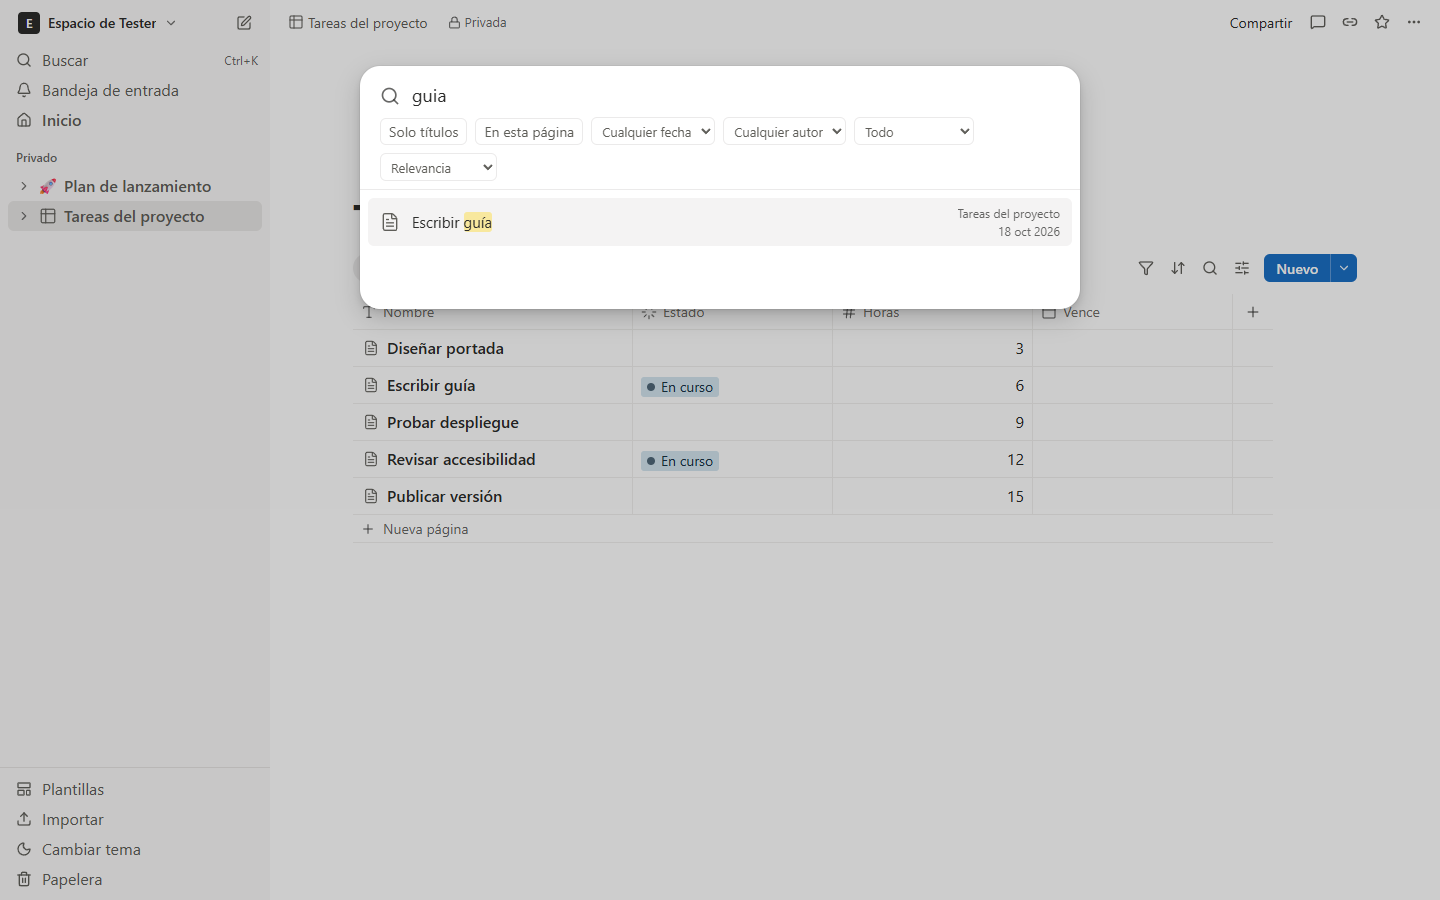
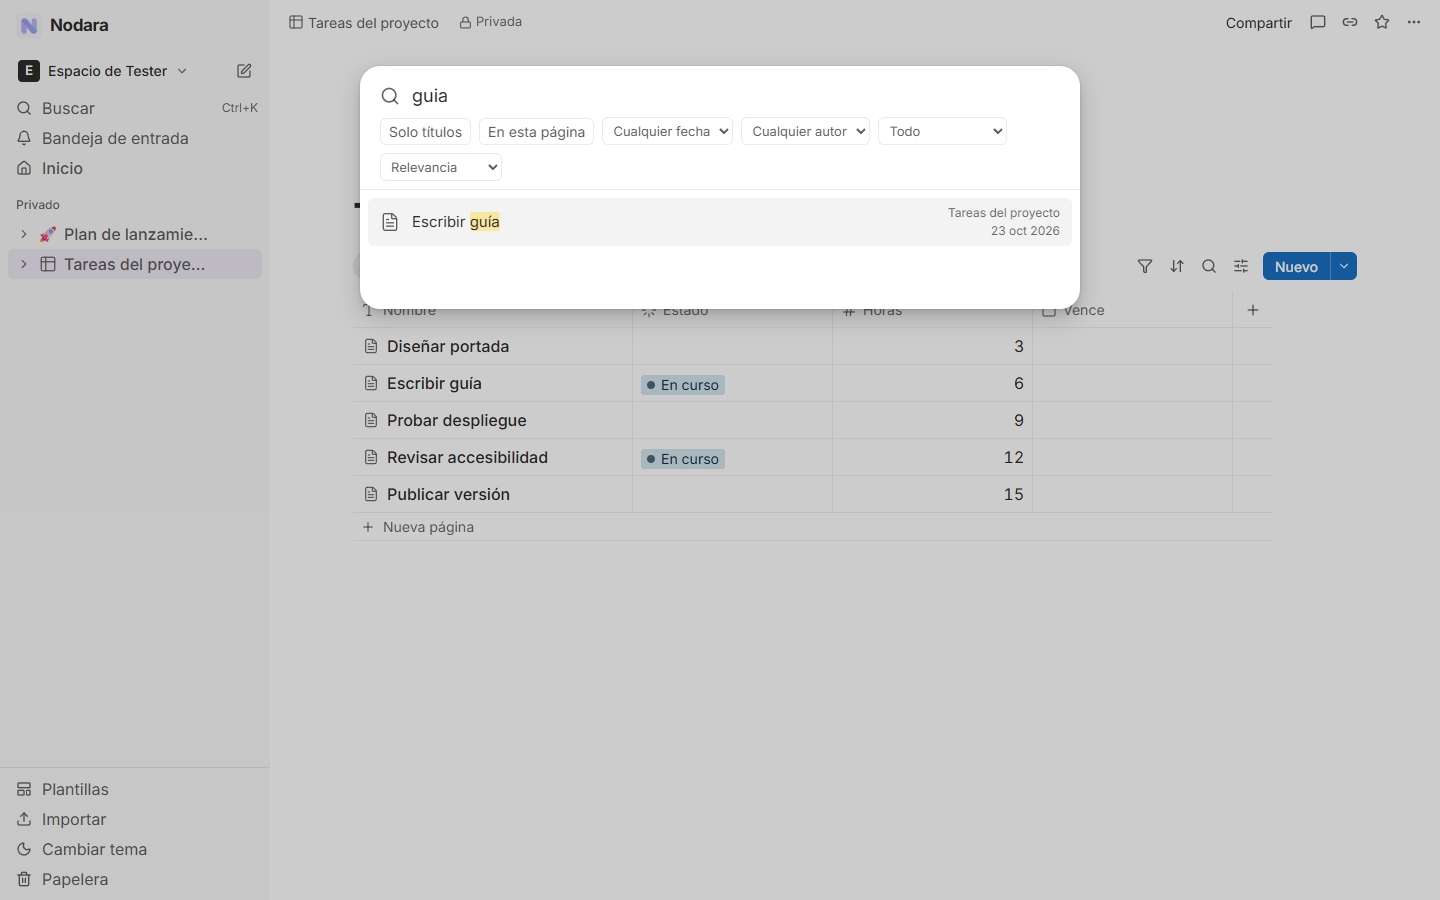
Capturas actualizadas de la interfaz y galería de plantillas y móvil en el README

diff --git a/README.md b/README.md
@@ -13,6 +13,10 @@ Nodara nace de la admiración por herramientas como Notion y su idea de que docu
   <img src="docs/images/base-de-datos.png" alt="Base de datos en vista de tabla" width="49%">
   <img src="docs/images/busqueda.png" alt="Búsqueda avanzada con filtros y resaltado" width="49%">
 </p>
+<p align="center">
+  <img src="docs/images/plantillas.png" alt="Galería de plantillas de página" width="49%">
+  <img src="docs/images/movil.png" alt="Nodara en un móvil" height="400">
+</p>
 
 ## Qué incluye
 | Área | Funcionalidades |
